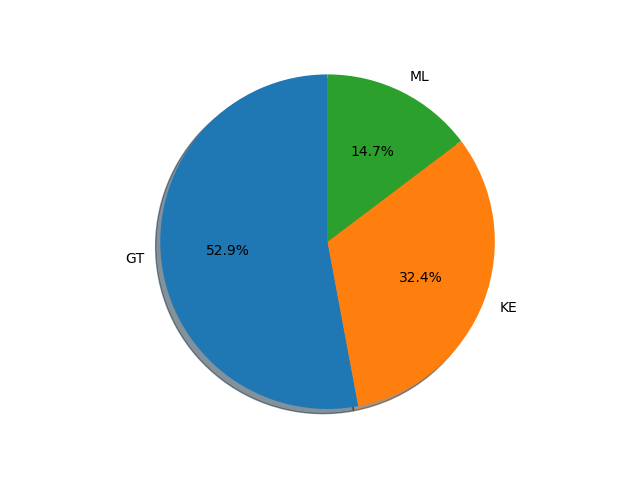
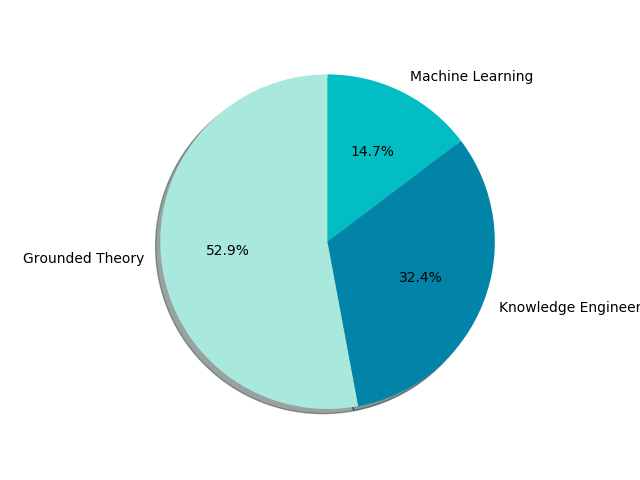
updated graph colors and added additional resources section

Changed region(s): [[0.0312, 0.1562, 0.7812, 0.875], [0.6562, 0.125, 0.8438, 0.1875], [0.7812, 0.625, 1.0, 0.6562]]

diff --git a/mixingpapers.py b/mixingpapers.py
@@ -38,29 +38,34 @@ def calculate_statistics(filename):
     years_num = [int(i) for i in sorted(years.keys())]
     pubs_per_year = [i[1] for i in sorted(years.items())]
     plt.figure(0)
-    plt.bar(years_num, pubs_per_year, align='center')
+    plt.bar(years_num, pubs_per_year, align='center', color='#0284A8')
+    ax = plt.gca()
+    ax.spines['top'].set_visible(False)
+    ax.spines['right'].set_visible(False)
     plt.xticks(years_num, years_num, rotation='vertical')
     plt.xlabel('Year')
     plt.ylabel('Publications')
     plt.title('Automatic Mixing Publications by Year')
-    plt.savefig('figs/papers_by_year.png')
+    plt.savefig('figs/papers_by_year.png',  transparent=True)
 
     # plot pie chart of approaches
     plt.figure(1)
-    labels = approaches.keys()
+    labels = ['Grounded Theory', 'Knowledge Engineering', 'Machine Learning']
     sizes = approaches.values()
-    plt.pie(sizes, labels=labels, autopct='%1.1f%%', shadow=True, startangle=90)
+    colors = ['#A9E8DC', '#0284A8', '#02BEC4']
+    plt.pie(sizes, labels=labels, autopct='%1.1f%%', shadow=True, startangle=90, colors=colors)
     plt.axis('equal')
-    plt.savefig('figs/approaches_breakdown.png')
+    plt.savefig('figs/approaches_breakdown.png', transparent=True)
 
     # plot pie chart of categories
     plt.figure(2)
     labels = categories.keys()
     sizes = categories.values()
     #explode = (0, 0.1, 0, 0)  # only "explode" the 2nd slice (i.e. 'Hogs')
-    plt.pie(sizes, labels=labels, autopct='%1.1f%%', shadow=True, startangle=90)
+    colors = ['#02547D', '#0284A8', '#02BEC4', '#A9E8DC', '#D5E8E4', '#3FE8C8']
+    plt.pie(sizes, labels=labels, autopct='%1.1f%%', shadow=True, startangle=90, colors=colors)
     plt.axis('equal')
-    plt.savefig('figs/categories_breakdown.png')
+    plt.savefig('figs/categories_breakdown.png',  transparent=True)
 
 def sort_papers_by_year(filename):
     with open(filename, "r+") as mixing:

diff --git a/additional.md b/additional.md
@@ -1,0 +1,3 @@
+## Additional Resources
+
+### YouTube
